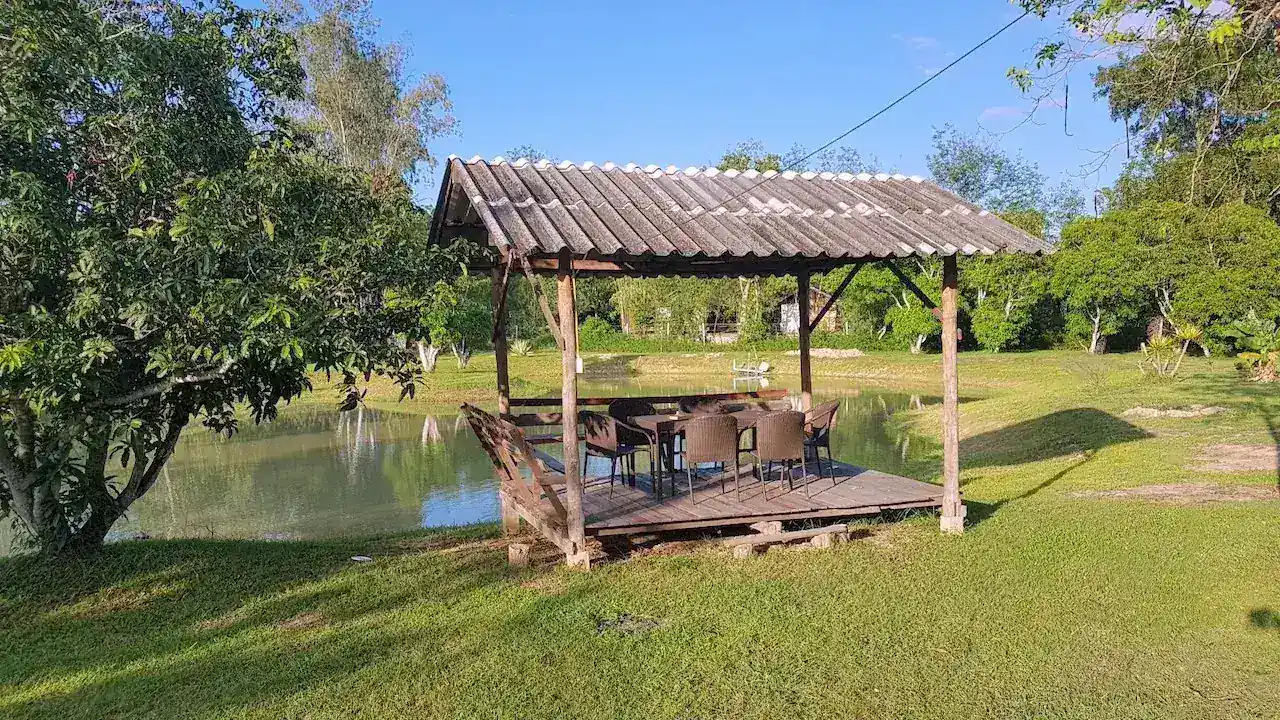
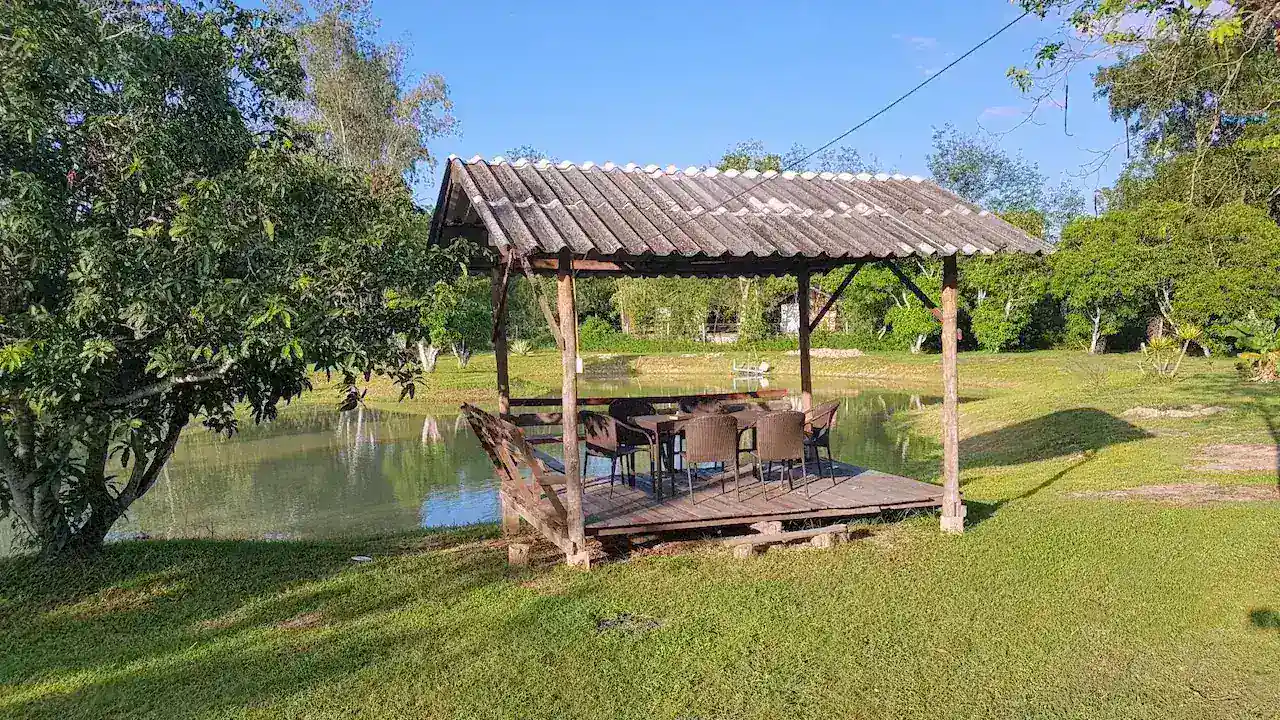
perf: fix responsive srcset and recompress 4 more images (round 3)
facility-210/202/225 were shipping full-resolution "large" WP images
with fake srcset entries that all pointed at the same file (no real
size variants existed). Resize each base file to its actual displayed
"large" size, generate real 300w/768w variants, fix srcset to
reference them, and drop a dead jpg reference in facility-202's
srcset. Recompress facility-230/250 and push facility-250 further.

Track all three rounds of findings/fixes in PERF-ISSUES.md (force-added,
*.md is gitignored here).

diff --git a/index.html b/index.html
@@ -606,15 +606,15 @@ Skip to content</a>
 </div>
 <div class="elementor-element elementor-element-6a1916e elementor-widget elementor-widget-image" data-e-type="widget" data-element_type="widget" data-id="6a1916e" data-widget_type="image.default">
 <div class="elementor-widget-container">
-<img alt="Camp 99 asia camp99asia" class="attachment-large size-large wp-image-723" decoding="async" height="576" loading="lazy" sizes="(max-width: 1024px) 100vw, 1024px" src="./images/camp99asia-camp99-asia-facility-210.webp" srcset="./images/camp99asia-camp99-asia-facility-210.webp 1024w, ./images/camp99asia-camp99-asia-facility-210.webp 300w, ./images/camp99asia-camp99-asia-facility-210.webp 768w, ./images/camp99asia-camp99-asia-facility-210.webp 1440w" width="1024"/> </div>
+<img alt="Camp 99 asia camp99asia" class="attachment-large size-large wp-image-723" decoding="async" height="576" loading="lazy" sizes="(max-width: 1024px) 100vw, 1024px" src="./images/camp99asia-camp99-asia-facility-210.webp" srcset="./images/camp99asia-camp99-asia-facility-210.webp 1024w, ./images/camp99asia-camp99-asia-facility-210-300w.webp 300w, ./images/camp99asia-camp99-asia-facility-210-768w.webp 768w" width="1024"/> </div>
 </div>
 <div class="elementor-element elementor-element-fd85858 elementor-widget elementor-widget-image" data-e-type="widget" data-element_type="widget" data-id="fd85858" data-widget_type="image.default">
 <div class="elementor-widget-container">
-<img alt="Camp 99 asia camp99asia" class="attachment-large size-large wp-image-738" decoding="async" height="631" loading="lazy" sizes="(max-width: 960px) 100vw, 960px" src="./images/camp99asia-camp99-asia-facility-225.webp" srcset="./images/camp99asia-camp99-asia-facility-225.webp 960w, ./images/camp99asia-camp99-asia-facility-225.webp 300w, ./images/camp99asia-camp99-asia-facility-225.webp 768w" width="960"/> </div>
+<img alt="Camp 99 asia camp99asia" class="attachment-large size-large wp-image-738" decoding="async" height="631" loading="lazy" sizes="(max-width: 960px) 100vw, 960px" src="./images/camp99asia-camp99-asia-facility-225.webp" srcset="./images/camp99asia-camp99-asia-facility-225.webp 960w, ./images/camp99asia-camp99-asia-facility-225-300w.webp 300w, ./images/camp99asia-camp99-asia-facility-225-768w.webp 768w" width="960"/> </div>
 </div>
 <div class="elementor-element elementor-element-9df1f25 elementor-widget elementor-widget-image" data-e-type="widget" data-element_type="widget" data-id="9df1f25" data-widget_type="image.default">
 <div class="elementor-widget-container">
-<img alt="Camp 99 asia camp99asia" class="attachment-large size-large wp-image-753" decoding="async" height="1024" loading="lazy" sizes="(max-width: 883px) 100vw, 883px" src="./images/camp99asia-camp99-asia-facility-202.webp" srcset="./images/camp99asia-camp99-asia-facility-202.webp 883w, ./images/Camp-99-asia-camp99asia-202-259x300_a085e7.jpg 259w, ./images/camp99asia-camp99-asia-facility-202.webp 768w, ./images/camp99asia-camp99-asia-facility-202.webp 1104w" width="883"/> </div>
+<img alt="Camp 99 asia camp99asia" class="attachment-large size-large wp-image-753" decoding="async" height="1024" loading="lazy" sizes="(max-width: 883px) 100vw, 883px" src="./images/camp99asia-camp99-asia-facility-202.webp" srcset="./images/camp99asia-camp99-asia-facility-202.webp 883w, ./images/camp99asia-camp99-asia-facility-202-300w.webp 300w, ./images/camp99asia-camp99-asia-facility-202-768w.webp 768w" width="883"/> </div>
 </div>
 <div class="elementor-element elementor-element-c8aebaa elementor-widget elementor-widget-image" data-e-type="widget" data-element_type="widget" data-id="c8aebaa" data-widget_type="image.default">
 <div class="elementor-widget-container">

diff --git a/PERF-ISSUES.md b/PERF-ISSUES.md
@@ -1,0 +1,50 @@
+# camp99.asia PageSpeed issues
+
+## Round 1 — 2026-08-04 11:16 AM report (mobile score 64) — FIXED (commit bc7c653)
+- Render-blocking CSS (common-head.css, vf6z_1b1df8.css, post-249_b187d0.css, vf6z_066dfd.css, fonts.css) — converted to preload+swap.
+- Oversized/uncompressed hero images (facility-212, facility-250, hero-lakeside-view) — recompressed, added responsive srcset for facility-212.
+- 4 icon images missing width/height — added.
+
+## Round 2 — 2026-08-04 1:10 PM report (mobile score 65 → this round's fixes got it to 85) — FIXED (commit 1a1efe1)
+- Render-blocking jQuery + flexibility polyfill (300ms) — deferred both, wrapped their jQuery-dependent inline scripts in `DOMContentLoaded` so execution order stays safe.
+- GTM (162KB, long main-thread tasks, forced reflow) — delayed injection until `window.load`.
+- Font-display fallback on Astra icon font — switched to `optional`.
+- Swiper slide images with empty `src` and no reserved space (CLS risk) — added `aspect-ratio` to `.swiper-slide-image`.
+- Further recompression of facility-250 / hero-lakeside-view / facility-212 variants.
+- Cache lifetimes on Cloudflare beacon.min.js / email-decode.min.js — confirmed out of our control (Cloudflare-managed, not files in this repo).
+
+## Round 3 — 2026-08-04 1:20 PM report (mobile score 85) — IN PROGRESS
+
+### Image delivery — 500KB savings (the big one this round)
+Four below-the-fold "large" images were shipping their full WordPress "large" size instead of what's actually displayed, and all had fake `srcset` entries that pointed at the same file for every width (no real size variants existed):
+- `facility-210.webp` — delivered 1440×810 for a 651×366 display box (198KB waste) + needed more compression (59.6KB).
+- `facility-202.webp` — delivered 1104×1280 for a 651×755 display box (173KB waste) + compression (35.8KB). Its `srcset` also referenced a dead file (`Camp-99-asia-camp99asia-202-259x300_a085e7.jpg`, never existed on disk).
+- `facility-225.webp` — delivered 960×631 for a 651×428 display box (28.2KB waste).
+- `facility-212-1024w.webp` (from round 1's srcset) — still 15.8KB of compression headroom.
+- `facility-230.webp` — 4.6KB of compression headroom (low priority).
+- `facility-250.webp` (background overlay) — still 43.6KB of compression headroom on top of round 2's pass.
+- `hero-lakeside-view.webp` (background) — still 11.4KB of compression headroom.
+
+**Fix applied**: resized each base file down to its actual "large" WordPress size (1024w/883w/960w), generated real 300w/768w variants (not duplicate references), fixed the `srcset` attributes to point at the real files, dropped the dead jpg reference, and recompressed. `facility-250` and `hero-lakeside-view` were pushed to more aggressive compression again — they're both near the floor of what WebP lossy encoding can squeeze at this resolution without visible banding, so further gains there are marginal.
+
+### Reduce unused CSS — 62KB (not attempted, documented in round 2, still open)
+`vf6z_066dfd.css` (32.1KB) and `common-head.css` (30KB) are shared theme CSS loaded site-wide. Purging requires auditing every page that shares them — flagged for a dedicated pass, not attempted per-page.
+
+### Reduce unused JS — 129KB (not attempted, documented in round 2, still open)
+GTM (68.4KB) is third-party and can't be trimmed. `swiper.min.js` (38.4KB) and jQuery (22.5KB) are full third-party libraries; trimming needs a real build/tree-shake step, out of scope for a manual pass.
+
+### Minify CSS — 2KB (skipped)
+Negligible savings on a 278KB hand-shared stylesheet; not worth the corruption risk of manual minification.
+
+### Trust and Safety (from round 1's report, not reprinted in rounds 2/3 but still applies — Cloudflare edge, not app code)
+- No CSP header (High severity)
+- No HSTS `preload` directive (Medium)
+- No COOP header (High)
+- No CSP Trusted Types directive (High)
+These are Cloudflare Pages response-header level, not something this repo's HTML/CSS controls directly — would need a `_headers` file entry or a Cloudflare Transform Rule. Flagged as an open item, not yet actioned.
+
+### Forced reflow / long main-thread tasks from GTM
+Still shows up (159ms + 92ms tasks) even after the `window.load` defer, since GTM's own script does synchronous DOM reads on init. This is upstream in Google's script, not something we can patch from our side beyond further delaying load (already delayed to `window.load`, further delay would visibly lag analytics).
+
+### Non-composited animations (96 elements, informational)
+Report lists `border-*-width`, `margin-*`, `padding-*`, `color`, `outline-width` etc. as "Unsupported CSS Property" against nearly every Elementor widget wrapper. This is Elementor's transition/hover CSS applying non-GPU-accelerated properties broadly (borders, margins, colors) — a site-wide Elementor theme behavior, not a one-off bug. Fixing means rewriting Elementor's generated hover/transition CSS to isolate composited-only properties (transform/opacity), which risks breaking hover effects across the whole site. Flagged, not attempted this round — needs a dedicated animation-audit pass, see `animation-decision-framework` skill if picked up later.
